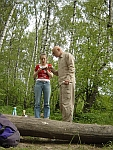
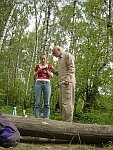
Add lastdr gallery with optimized images
- Create content/photos/lastdr.md with 4 images
- Optimize existing LastDR gallery images (1.3MB total)
- ImageMagick: resize 1920px max, quality 85%, progressive JPEG
- Uses shared gallery template via type: "gallery"

🤖 Generated with [Claude Code](https://claude.com/claude-code)

diff --git a/docs/photos/lastdr/index.html b/docs/photos/lastdr/index.html
@@ -1,0 +1,6 @@
+<!doctype html><html lang=ru><head><meta charset=UTF-8><meta name=viewport content="width=device-width,initial-scale=1"><meta name=robots content="index, follow"><title>Последний День рождения &lt; Андрей Бычков</title><meta name=description content="Андрей Бычков - российский альпинист, кандидат в мастера спорта"><link rel=stylesheet href=/css/main.min.665284fac5f8fa3126af6e4ae5ecf4269589bf1d62be0f09b73caa325b8472a4.css></head><body class="min-h-screen bg-no-repeat bg-top bg-fixed" style=background-image:url(/images/bg.jpg);background-size:auto><div class="min-h-screen flex flex-col"><header class="w-full max-w-4xl mx-auto px-4 py-5"><nav class="flex flex-wrap justify-center gap-2 md:gap-4"><div class="px-4 md:px-8 py-6 md:py-8 text-lg md:text-2xl bg-menu-inactive rounded"><a href=/ class="text-gray-800 no-underline hover:opacity-80 transition-opacity">Главная</a></div><div class="px-4 md:px-8 py-6 md:py-8 text-lg md:text-2xl bg-menu-inactive rounded"><a href=/biography class="text-gray-800 no-underline hover:opacity-80 transition-opacity">Биография</a></div><div class="px-4 md:px-8 py-6 md:py-8 text-lg md:text-2xl bg-menu-inactive rounded"><a href=/photos class="text-gray-800 no-underline hover:opacity-80 transition-opacity">Фотоальбомы</a></div><div class="px-4 md:px-8 py-6 md:py-8 text-lg md:text-2xl bg-menu-inactive rounded"><a href=/videos class="text-gray-800 no-underline hover:opacity-80 transition-opacity">Видео</a></div><div class="px-4 md:px-8 py-6 md:py-8 text-lg md:text-2xl bg-menu-inactive rounded"><a href=/texts class="text-gray-800 no-underline hover:opacity-80 transition-opacity">Тексты</a></div></nav></header><main class=flex-1><article class="max-w-6xl mx-auto px-4 py-8"><header class="mb-8 text-center"><h1 class="text-3xl font-bold">Последний День рождения</h1></header><div class="grid grid-cols-2 md:grid-cols-4 gap-4" id=gallery-grid><div class="relative group"><a href=/images/gallery/LastDR/DSC09259.jpg class="block gallery-item" data-index=0><img src=/images/gallery/LastDR/small/DSC09259.jpg alt="Последний День рождения" class="w-full h-48 object-cover rounded shadow-md hover:shadow-xl transition-shadow"></a></div><div class="relative group"><a href=/images/gallery/LastDR/DSC09270.jpg class="block gallery-item" data-index=1><img src=/images/gallery/LastDR/small/DSC09270.jpg alt="Последний День рождения" class="w-full h-48 object-cover rounded shadow-md hover:shadow-xl transition-shadow"></a></div><div class="relative group"><a href=/images/gallery/LastDR/DSC09273.jpg class="block gallery-item" data-index=2><img src=/images/gallery/LastDR/small/DSC09273.jpg alt="Последний День рождения" class="w-full h-48 object-cover rounded shadow-md hover:shadow-xl transition-shadow"></a></div><div class="relative group"><a href=/images/gallery/LastDR/DSC09276.jpg class="block gallery-item" data-index=3><img src=/images/gallery/LastDR/small/DSC09276.jpg alt="Последний День рождения" class="w-full h-48 object-cover rounded shadow-md hover:shadow-xl transition-shadow"></a></div></div></article><script>const images=["/images/gallery/LastDR/DSC09259.jpg","/images/gallery/LastDR/DSC09270.jpg","/images/gallery/LastDR/DSC09273.jpg","/images/gallery/LastDR/DSC09276.jpg"];let currentIndex=0,lightbox,lightboxImg;document.addEventListener("DOMContentLoaded",()=>{lightbox=document.createElement("div"),lightbox.id="lightbox",lightbox.className="hidden fixed inset-0 bg-black bg-opacity-95 flex items-center justify-center",lightbox.style.zIndex="9999",lightbox.innerHTML=`
+    <button id="lightbox-close" class="absolute top-4 right-4 text-white text-4xl font-bold hover:text-gray-300 cursor-pointer" style="z-index: 10000;">&times;</button>
+    <button id="lightbox-prev" class="absolute left-4 text-white text-6xl font-bold hover:text-gray-300 cursor-pointer" style="z-index: 10000;">&lsaquo;</button>
+    <button id="lightbox-next" class="absolute right-4 text-white text-6xl font-bold hover:text-gray-300 cursor-pointer" style="z-index: 10000;">&rsaquo;</button>
+    <img id="lightbox-img" src="" alt="" class="max-w-full max-h-full object-contain p-8" />
+  `,document.body.appendChild(lightbox),lightboxImg=document.getElementById("lightbox-img"),document.querySelectorAll(".gallery-item").forEach(e=>{e.addEventListener("click",t=>{t.preventDefault(),currentIndex=parseInt(e.dataset.index),showLightbox()})}),document.getElementById("lightbox-close").addEventListener("click",closeLightbox),document.getElementById("lightbox-prev").addEventListener("click",()=>navigate(-1)),document.getElementById("lightbox-next").addEventListener("click",()=>navigate(1)),lightbox.addEventListener("click",e=>{e.target===lightbox&&closeLightbox()}),document.addEventListener("keydown",e=>{lightbox.classList.contains("hidden")||(e.key==="Escape"&&closeLightbox(),e.key==="ArrowLeft"&&navigate(-1),e.key==="ArrowRight"&&navigate(1))})});function showLightbox(){lightboxImg.src=images[currentIndex],lightbox.classList.remove("hidden")}function closeLightbox(){lightbox.classList.add("hidden")}function navigate(e){currentIndex=(currentIndex+e+images.length)%images.length,lightboxImg.src=images[currentIndex]}</script></main><footer class="w-full text-center py-4 text-sm md:text-base"><p>2006 - 2025 © Все права защищены</p></footer></div></body></html>

diff --git a/content/photos/lastdr.md b/content/photos/lastdr.md
@@ -1,0 +1,13 @@
+---
+title: "Последний День рождения"
+type: "gallery"
+images:
+  - full: "/images/gallery/LastDR/DSC09259.jpg"
+    thumb: "/images/gallery/LastDR/small/DSC09259.jpg"
+  - full: "/images/gallery/LastDR/DSC09270.jpg"
+    thumb: "/images/gallery/LastDR/small/DSC09270.jpg"
+  - full: "/images/gallery/LastDR/DSC09273.jpg"
+    thumb: "/images/gallery/LastDR/small/DSC09273.jpg"
+  - full: "/images/gallery/LastDR/DSC09276.jpg"
+    thumb: "/images/gallery/LastDR/small/DSC09276.jpg"
+---
